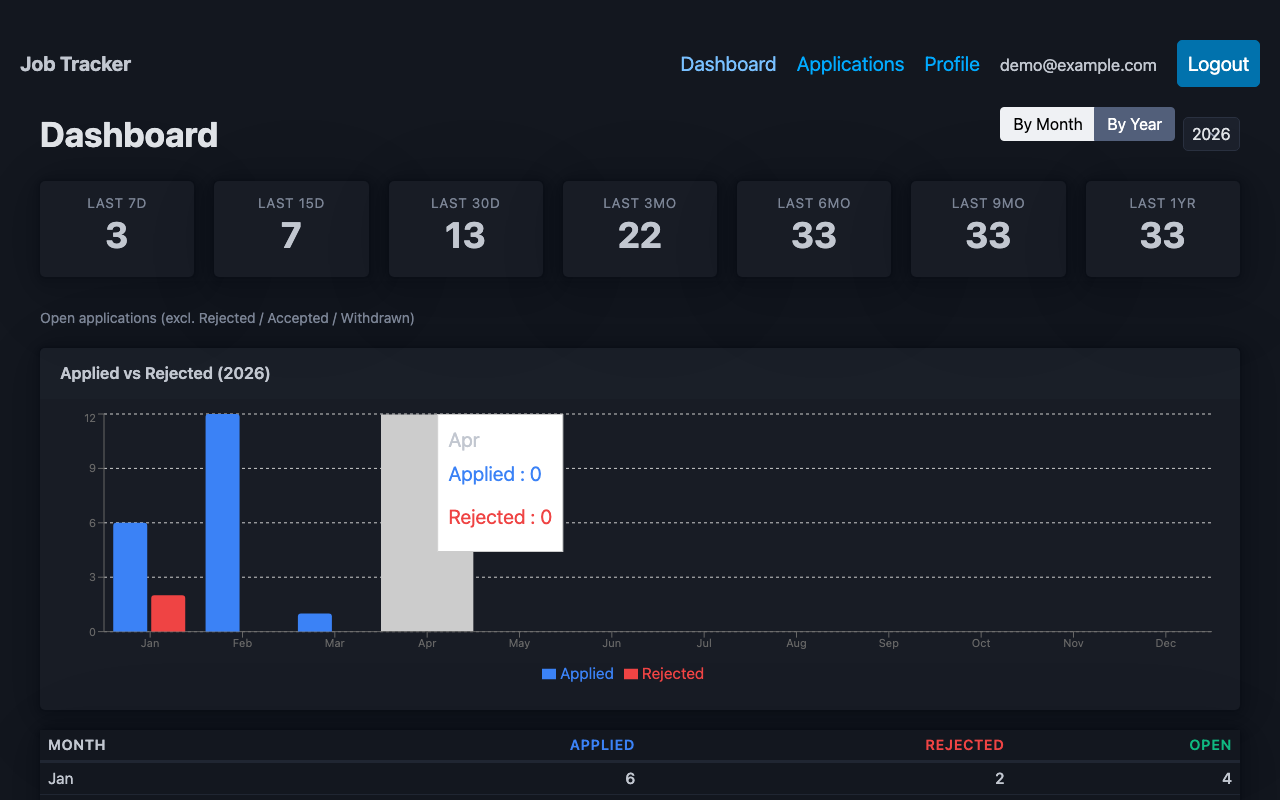
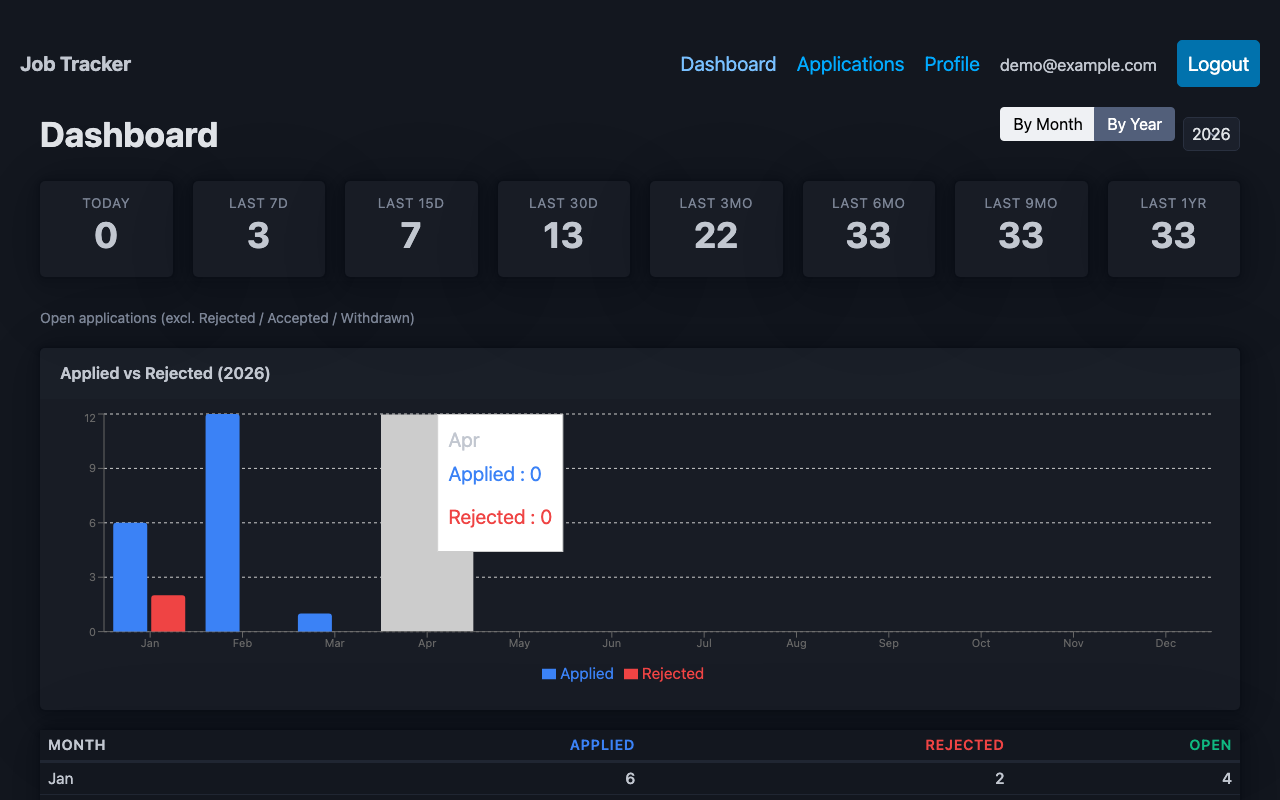
feat(dashboard): add Today KPI card to open windows grid
Adds a new 'Today' stat card (first position) showing total applications
submitted today (all statuses), backed by a CURRENT_DATE filter in the
snapshot SQL query.

diff --git a/frontend/src/routes/Dashboard.tsx b/frontend/src/routes/Dashboard.tsx
@@ -82,6 +82,7 @@ export default function Dashboard() {
       {/* Open Windows KPI cards */}
       <div className="grid" style={{ marginBottom: '0.5rem' }}>
         {[
+          { label: 'Today',    value: windows?.today   ?? 0 },
           { label: 'Last 7d',  value: windows?.last7d  ?? 0 },
           { label: 'Last 15d', value: windows?.last15d ?? 0 },
           { label: 'Last 30d', value: windows?.last30d ?? 0 },

diff --git a/frontend/src/api/stats.ts b/frontend/src/api/stats.ts
@@ -33,6 +33,7 @@ export interface BreakdownRow {
 }
 
 export interface OpenWindows {
+  today: number
   last7d: number
   last15d: number
   last30d: number

diff --git a/backend/stats-service/src/main/java/com/jobtracker/stats/service/StatsService.java b/backend/stats-service/src/main/java/com/jobtracker/stats/service/StatsService.java
@@ -231,16 +231,18 @@ public class StatsService {
     private OpenWindowsDto queryOpenWindows(UUID userId) {
         String snapSql =
             "SELECT " +
+            "  COUNT(*) FILTER (WHERE COALESCE(applied_at, created_at::date) = CURRENT_DATE) AS today, " +
             "  COUNT(*) FILTER (WHERE COALESCE(applied_at, created_at::date) >= CURRENT_DATE - 7   AND status NOT IN ('REJECTED','ACCEPTED','WITHDRAWN')) AS last7d, " +
             "  COUNT(*) FILTER (WHERE COALESCE(applied_at, created_at::date) >= CURRENT_DATE - 15  AND status NOT IN ('REJECTED','ACCEPTED','WITHDRAWN')) AS last15d, " +
             "  COUNT(*) FILTER (WHERE COALESCE(applied_at, created_at::date) >= CURRENT_DATE - 30  AND status NOT IN ('REJECTED','ACCEPTED','WITHDRAWN')) AS last30d " +
             "FROM applications_snapshot WHERE user_id=? AND deleted_at IS NULL";
 
-        long[] snapResult = {0, 0, 0};
+        long[] snapResult = {0, 0, 0, 0};
         jdbc.query(snapSql, (RowCallbackHandler) rs -> {
             snapResult[0] = rs.getLong(1);
             snapResult[1] = rs.getLong(2);
             snapResult[2] = rs.getLong(3);
+            snapResult[3] = rs.getLong(4);
         }, userId);
 
         LocalDate today = LocalDate.now();
@@ -270,7 +272,7 @@ public class StatsService {
                 },
                 userId, minYear, minYear, minMonth);
 
-        return new OpenWindowsDto(snapResult[0], snapResult[1], snapResult[2],
+        return new OpenWindowsDto(snapResult[0], snapResult[1], snapResult[2], snapResult[3],
                                   aggResult[0], aggResult[1], aggResult[2], aggResult[3]);
     }
 }

diff --git a/backend/stats-service/src/main/java/com/jobtracker/stats/api/dto/OpenWindowsDto.java b/backend/stats-service/src/main/java/com/jobtracker/stats/api/dto/OpenWindowsDto.java
@@ -1,3 +1,3 @@
 package com.jobtracker.stats.api.dto;
 
-public record OpenWindowsDto(long last7d, long last15d, long last30d, long last3m, long last6m, long last9m, long last1y) {}
+public record OpenWindowsDto(long today, long last7d, long last15d, long last30d, long last3m, long last6m, long last9m, long last1y) {}
